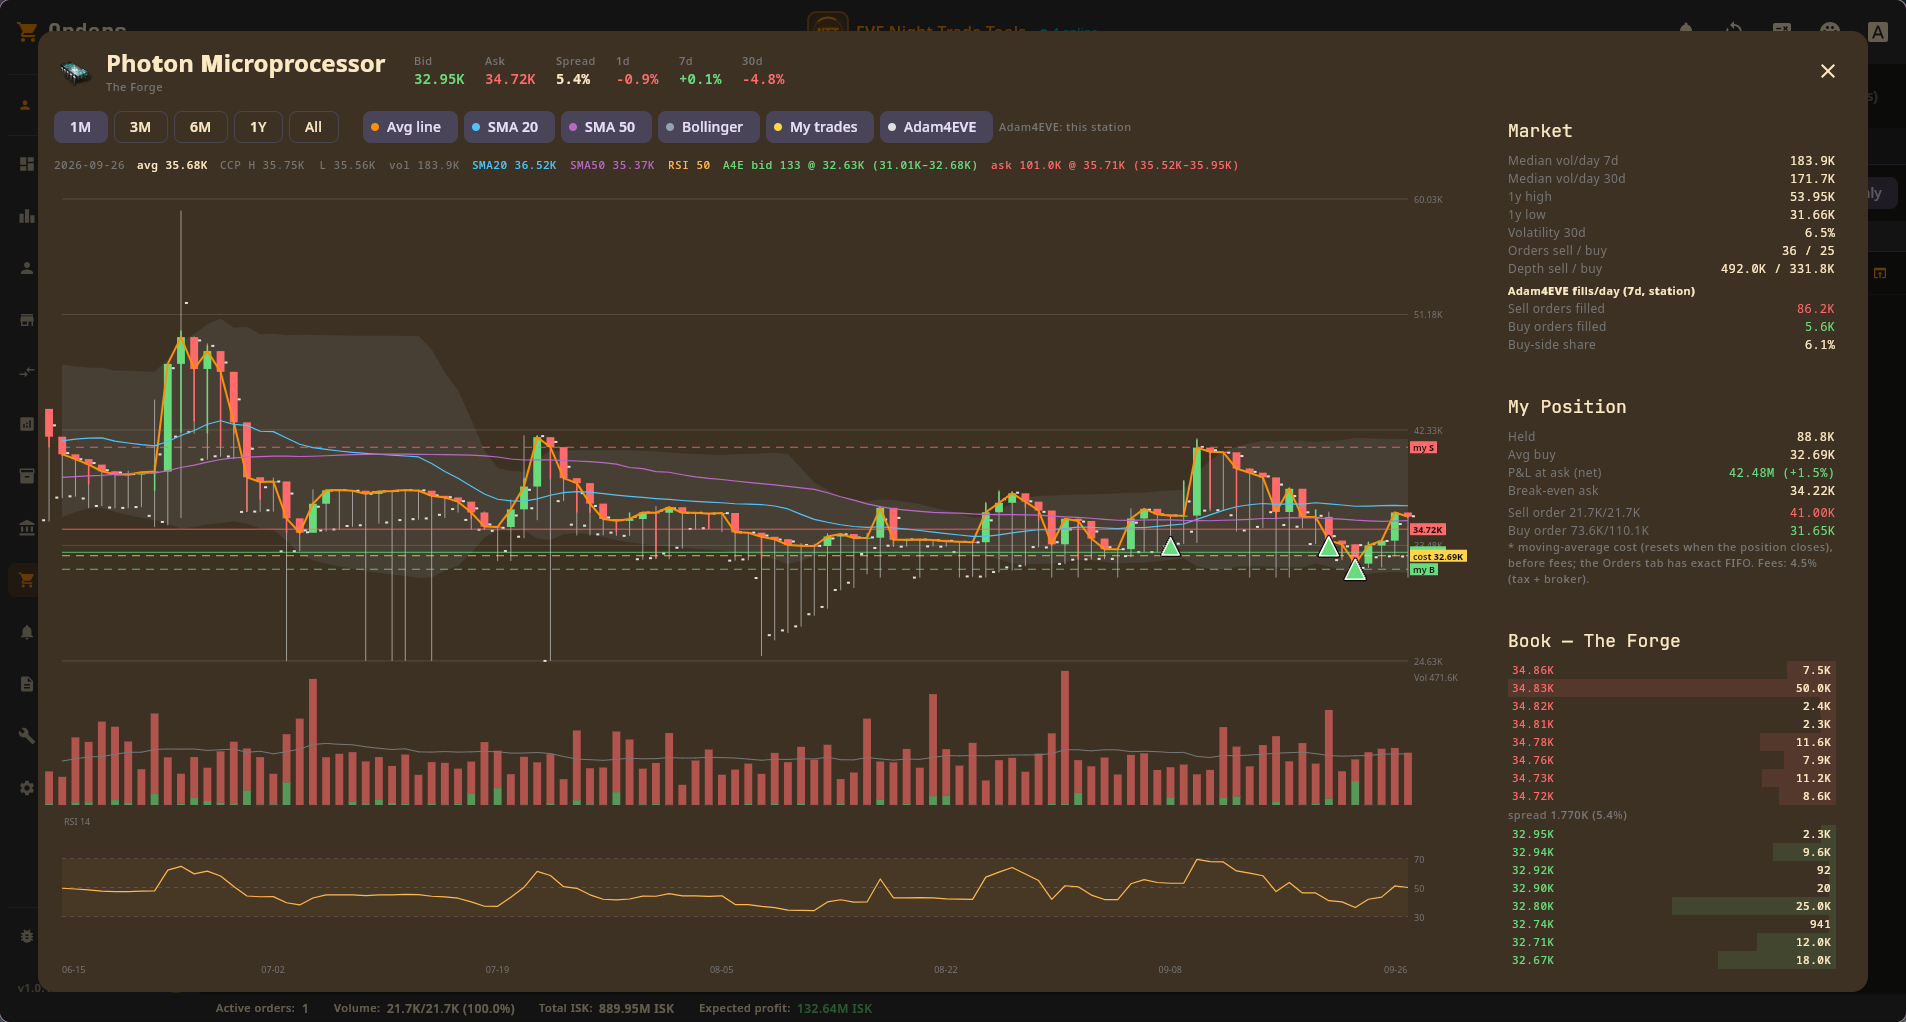
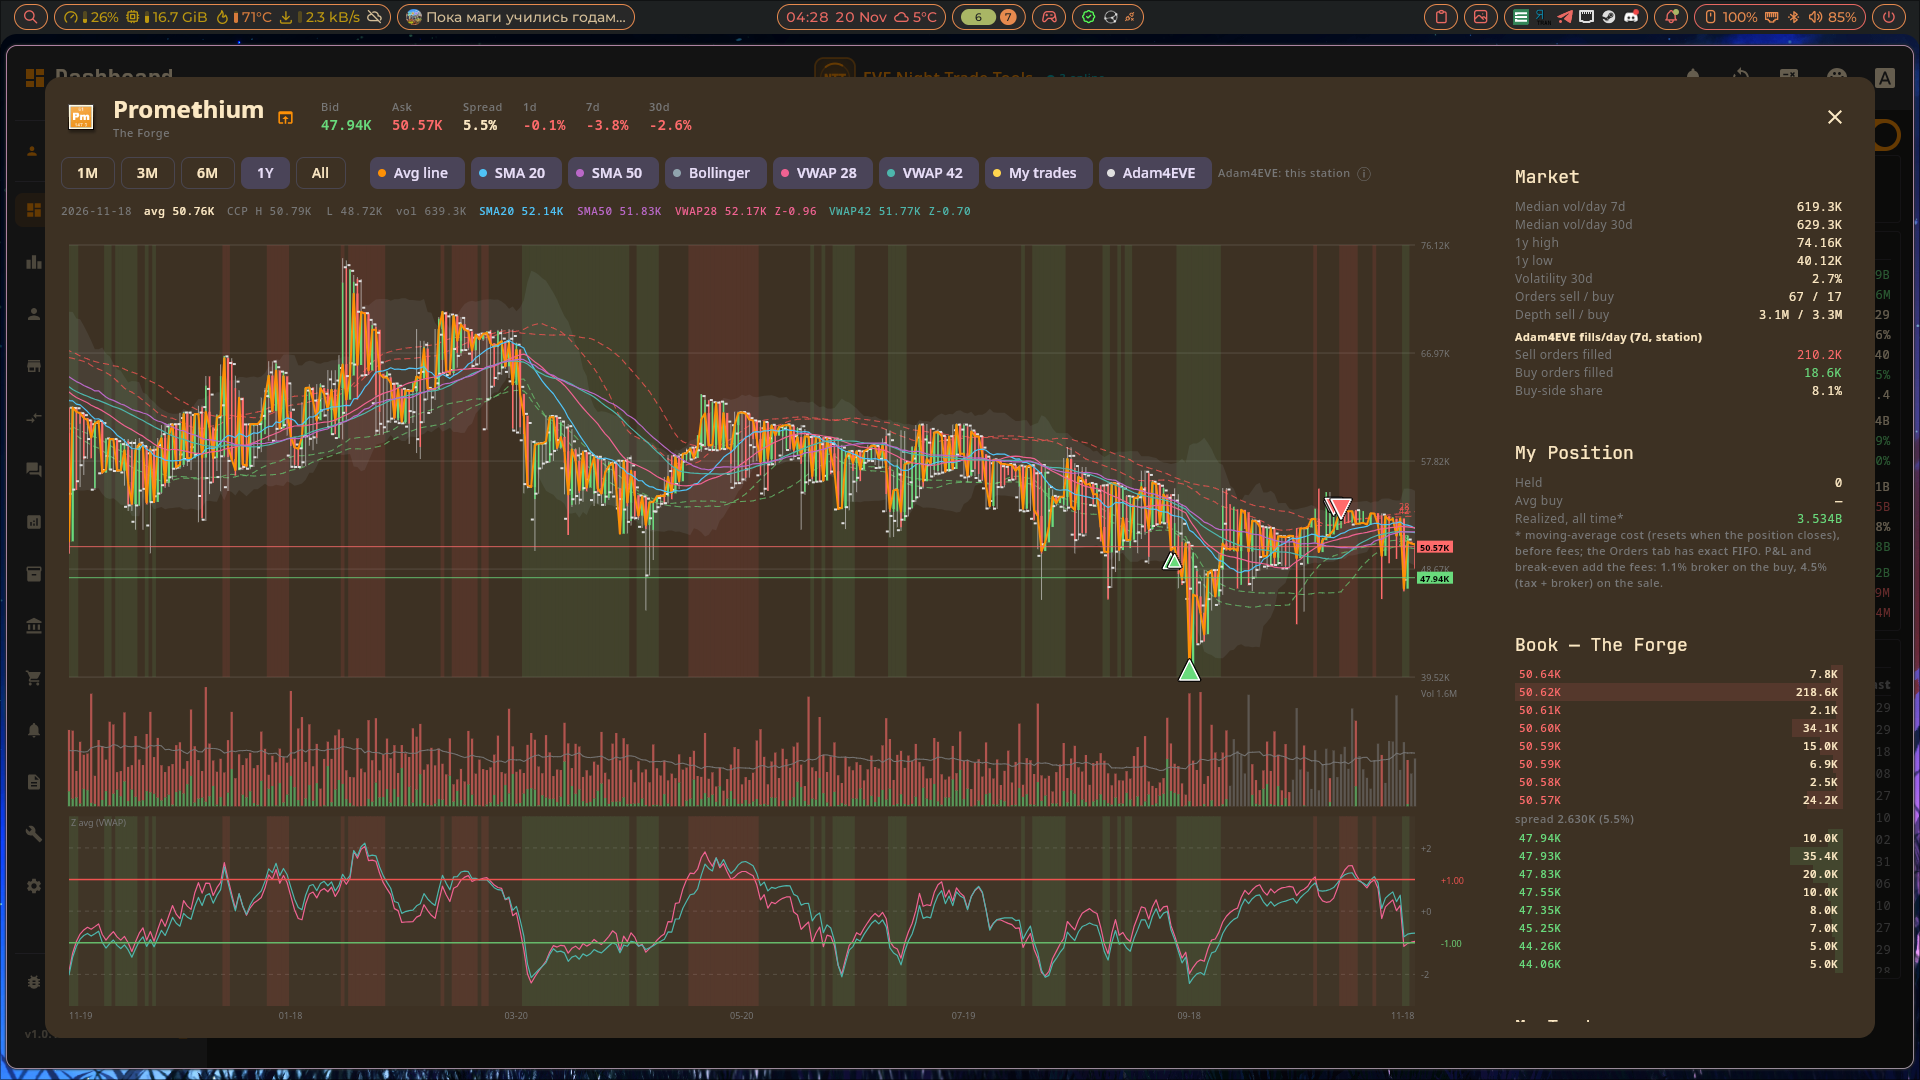
Improve the README screenshots with the redesigned screens

Changed region(s): [[0.0, 0.0, 1.0, 1.0], [0.7739, 0.1213, 0.8977, 0.364]]

diff --git a/docs/WIKI.ru.md b/docs/WIKI.ru.md
@@ -71,7 +71,7 @@
 Торговый терминал по одному предмету. Открывается значком графика рядом с названием или правым кликом по строке в Analysis, Orders или Alerts.
 
 - **Шапка**: лучшие цены buy / sell, спред и изменение за 1 / 7 / 30 дней.
-- **График**: дневные свечи с кнопками периода (1М–Всё), зум колесом мыши, перетаскивание и вертикальный зум, перекрестие со значениями за день под курсором. Включаемые слои (запоминаются между запусками): средняя линия, SMA 20, SMA 50, полосы Боллинджера, **VWAP 28**, **Мои сделки** (ваши покупки ▲ и продажи ▼; полые маркеры — сделки в других регионах; в режиме All на Dashboard — сделки всех персонажей и корпораций) и **Adam4EVE** (год реальных сделок по сторонам на станции). Ниже — объёмы и панель **Z**: насколько цена отошла от своего 28-дневного VWAP в собственных типичных колебаниях. Сплошными линиями отмечены текущие buy/sell, пунктиром — ваша себестоимость, **безубыточность** (BE — себестоимость с брокерской комиссией покупки плюс налог и брокерская комиссия продажи) и открытые ордера.
+- **График**: дневные свечи с кнопками периода (1М–Всё), зум колесом мыши, перетаскивание и вертикальный зум, перекрестие со значениями за день под курсором. Включаемые слои (запоминаются между запусками): средняя линия, SMA 20, SMA 50, полосы Боллинджера, **VWAP 28**, **VWAP 42**, **Мои сделки** (ваши покупки ▲ и продажи ▼; полые маркеры — сделки в других регионах; в режиме All на Dashboard — сделки всех персонажей и корпораций) и **Adam4EVE** (год реальных сделок по сторонам на станции). Ниже — объёмы и панель **Z**: насколько цена отошла от своего 28-дневного VWAP в собственных типичных колебаниях. Сплошными линиями отмечены текущие buy/sell, пунктиром — ваша себестоимость, **безубыточность** (BE — себестоимость с брокерской комиссией покупки плюс налог и брокерская комиссия продажи) и открытые ордера.
 - **Shift+drag** (или правой кнопкой) — линейка маржи: чистая маржа и прибыль в ISK между двумя ценами после брокерской комиссии и налога. **Ctrl+клик** — линия ценового алерта, повторный Ctrl+клик удаляет. Линии алертов показывают ваши активные алерты, живые z-алерты — на сегодняшнем уровне.
 - **Боковая панель**: статистика рынка (медианный объём, макс./мин. за год, волатильность за 30 дней, число ордеров и глубина), сделки Adam4EVE в день, **Моя позиция** (количество, средняя покупка, прибыль по текущей цене продажи и цена безубыточности — обе с комиссиями, реализованная прибыль, ваши ордера) и живой стакан, где ваши ордера отмечены звёздочкой.
 

diff --git a/README.ru.md b/README.ru.md
@@ -18,7 +18,7 @@
 - **Chat** — добровольный публичный чат трейдеров и доска предложений через Nostr, с @упоминаниями и выбором персонажа «Post as»
 - **Characters** — подключение персонажей через SSO; работа от имени персонажа или корпорации
 - **Market** — стакан ордеров рядом с KPI рынка и история цен по регионам (PLEX — через его глобальный рынок); окно рынка предмета в игре открывается одним кликом
-- **График предмета** — торговый терминал по предмету: свечи с SMA 20/50, полосами Боллинджера, VWAP 28 и его z-score, ваши покупки и продажи, год реальных сделок по станции из Adam4EVE, ваша позиция с линией безубыточности с учётом комиссий, линейка маржи (Shift+drag), линии алертов (Ctrl+клик) и живой стакан; открывается правым кликом по строке в Analysis, Orders или Alerts
+- **График предмета** — торговый терминал по предмету: свечи с SMA 20/50, полосами Боллинджера, VWAP 28/42 и z-score, ваши покупки и продажи, год реальных сделок по станции из Adam4EVE, ваша позиция с линией безубыточности с учётом комиссий, линейка маржи (Shift+drag), линии алертов (Ctrl+клик) и живой стакан; открывается правым кликом по строке в Analysis, Orders или Alerts
 - **Analysis** — сканеры станционной и межрегиональной торговли (с режимом restock, который считает закупку по вашему темпу продаж в точке назначения) с хоткей-очередями закупки, а также **Long-Term Investment**: ищет предметы заметно ниже своей обычной цены, распределяет бюджет и строит лесенку buy-ордеров с бэктестом и z-score алертами на продажу (подробности — во встроенном гайде)
 - **Assets** — имущество по локациям и категориям со стоимостью и объёмом
 - **Wallet** — журнал транзакций с KPI за период, разбивками по предметам / клиентам / типам и P&L
@@ -43,10 +43,9 @@
 
 | | |
 |---|---|
-| ![Dashboard](Screenshot/dashboard.png) | ![Analysis](Screenshot/analysis.png) |
-| ![Orders](Screenshot/orders.png) | ![Market browser](Screenshot/market_browser.png) |
-
-![График предмета](Screenshot/item_chart.png)
+| ![Dashboard](Screenshot/dashboard.png) | ![Leaderboard](Screenshot/leaderboard.png) |
+| ![Assets](Screenshot/assets.png) | ![Wallet](Screenshot/wallet.png) |
+| ![Contracts](Screenshot/contracts.png) | ![График предмета](Screenshot/item_chart.png) |
 
 ## Требования
 

diff --git a/docs/WIKI.md b/docs/WIKI.md
@@ -71,7 +71,7 @@ Add characters via EVE SSO, manage tokens, and pick the active context — a cha
 A trading terminal for one item. Opens from the chart icon next to an item name, or by right-clicking a row in Analysis, Orders or Alerts.
 
 - **Header**: best bid / ask, spread, and 1d / 7d / 30d change.
-- **Chart**: daily candles with range buttons (1M–All), mouse-wheel zoom, drag to pan and vertical zoom, a crosshair with a value readout for the hovered day. Overlays you can toggle (remembered between sessions): average line, SMA 20, SMA 50, Bollinger bands, **VWAP 28**, **My trades** (your buys ▲ and sells ▼ — hollow markers are fills in other regions; in the Dashboard's All view, every character's and corp's), and **Adam4EVE** (a year of real per-side fills at the station). Volume bars and a **Z** pane below: how far the price sits from its 28-day VWAP in its own typical swings. Solid lines mark the live bid/ask; dashed ones your cost, **break-even** (BE — cost with the buy broker fee, plus sales tax and sell broker fee) and your open orders.
+- **Chart**: daily candles with range buttons (1M–All), mouse-wheel zoom, drag to pan and vertical zoom, a crosshair with a value readout for the hovered day. Overlays you can toggle (remembered between sessions): average line, SMA 20, SMA 50, Bollinger bands, **VWAP 28**, **VWAP 42**, **My trades** (your buys ▲ and sells ▼ — hollow markers are fills in other regions; in the Dashboard's All view, every character's and corp's), and **Adam4EVE** (a year of real per-side fills at the station). Volume bars and a **Z** pane below: how far the price sits from its 28-day VWAP in its own typical swings. Solid lines mark the live bid/ask; dashed ones your cost, **break-even** (BE — cost with the buy broker fee, plus sales tax and sell broker fee) and your open orders.
 - **Shift+drag** (or right-drag) — margin ruler: net margin and ISK profit after broker fee and sales tax between two prices. **Ctrl+click** — a price alert line; Ctrl+click it again to remove. Alert lines show your active alerts, live z alerts at today's level.
 - **Side panel**: market stats (median volume, 1-year high/low, 30-day volatility, order counts and depth), Adam4EVE fills per day, **My Position** (held quantity, average buy, P&L at the current ask and break-even, both with fees, realized P&L, your open orders) and the live order book with your own orders starred.
 

diff --git a/README.md b/README.md
@@ -18,7 +18,7 @@ A desktop trading toolkit for [EVE Online](https://www.eveonline.com/), built wi
 - **Chat** — opt-in public trader chat and a suggestions board over Nostr, with @mentions and a "Post as" character picker
 - **Characters** — manage linked EVE characters via SSO; act as a character or a corporation
 - **Market** — browse regional market orders side by side with market KPIs and price history (PLEX handled via its global market region); open any item's market window in game with one click
-- **Item chart** — a per-item trading terminal: candles with SMA 20/50, Bollinger bands, VWAP 28 and its z-score, your own buys/sells, a year of real per-station Adam4EVE fills, your position with a fee-inclusive break-even line, a margin ruler (Shift+drag), alert lines (Ctrl+click), and the live order book; right-click a row in Analysis, Orders or Alerts to open it
+- **Item chart** — a per-item trading terminal: candles with SMA 20/50, Bollinger bands, VWAP 28/42 and the z-score, your own buys/sells, a year of real per-station Adam4EVE fills, your position with a fee-inclusive break-even line, a margin ruler (Shift+drag), alert lines (Ctrl+click), and the live order book; right-click a row in Analysis, Orders or Alerts to open it
 - **Analysis** — station-trading and inter-region scanners (with a restock mode that sizes buys to your own sales pace at the destination) and hotkey-driven buy queues, plus **Long-Term Investment**: finds items trading well below their own normal price, splits a budget across them and builds a backtested buy-order ladder with z-score sell alerts (see the in-app Guide)
 - **Assets** — inventory by location and category with value and volume
 - **Wallet** — transaction journal with period KPIs, item / client / type breakdowns and P&L
@@ -43,10 +43,9 @@ See the **[User Wiki](docs/WIKI.md)** for a screen-by-screen guide and typical w
 
 | | |
 |---|---|
-| ![Dashboard](Screenshot/dashboard.png) | ![Analysis](Screenshot/analysis.png) |
-| ![Orders](Screenshot/orders.png) | ![Market browser](Screenshot/market_browser.png) |
-
-![Item chart](Screenshot/item_chart.png)
+| ![Dashboard](Screenshot/dashboard.png) | ![Leaderboard](Screenshot/leaderboard.png) |
+| ![Assets](Screenshot/assets.png) | ![Wallet](Screenshot/wallet.png) |
+| ![Contracts](Screenshot/contracts.png) | ![Item chart](Screenshot/item_chart.png) |
 
 ## Requirements
 
